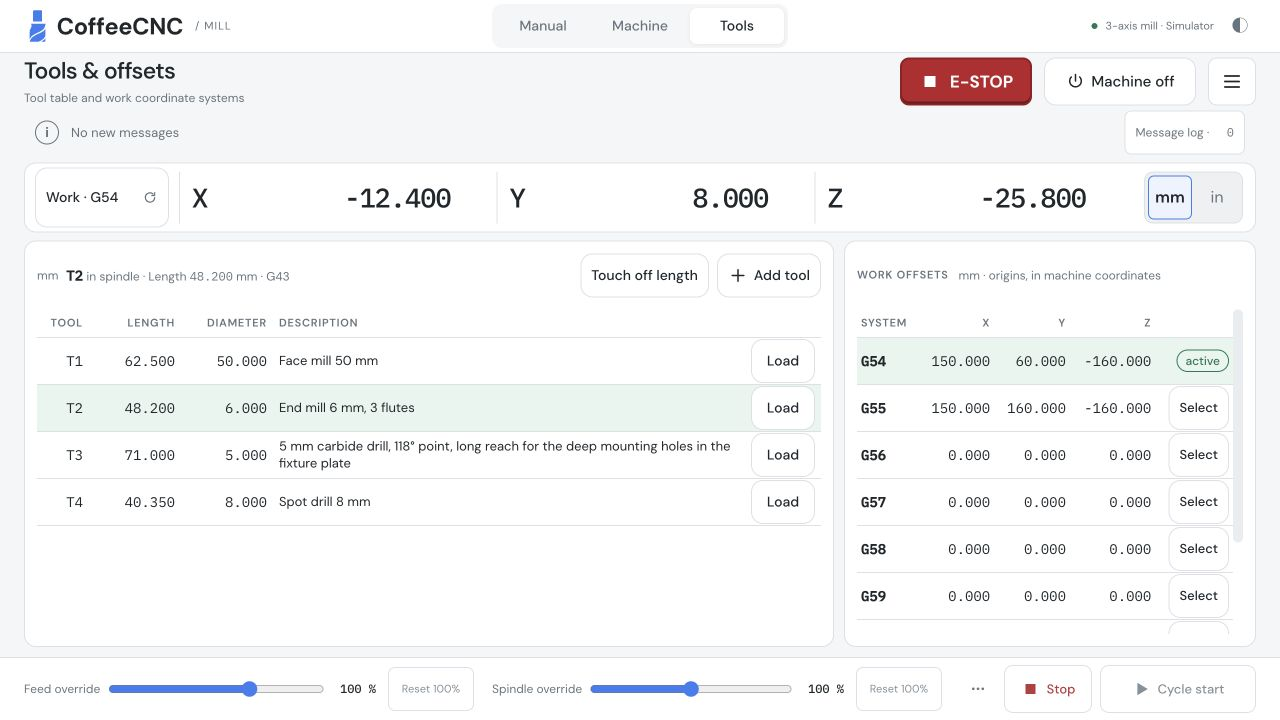
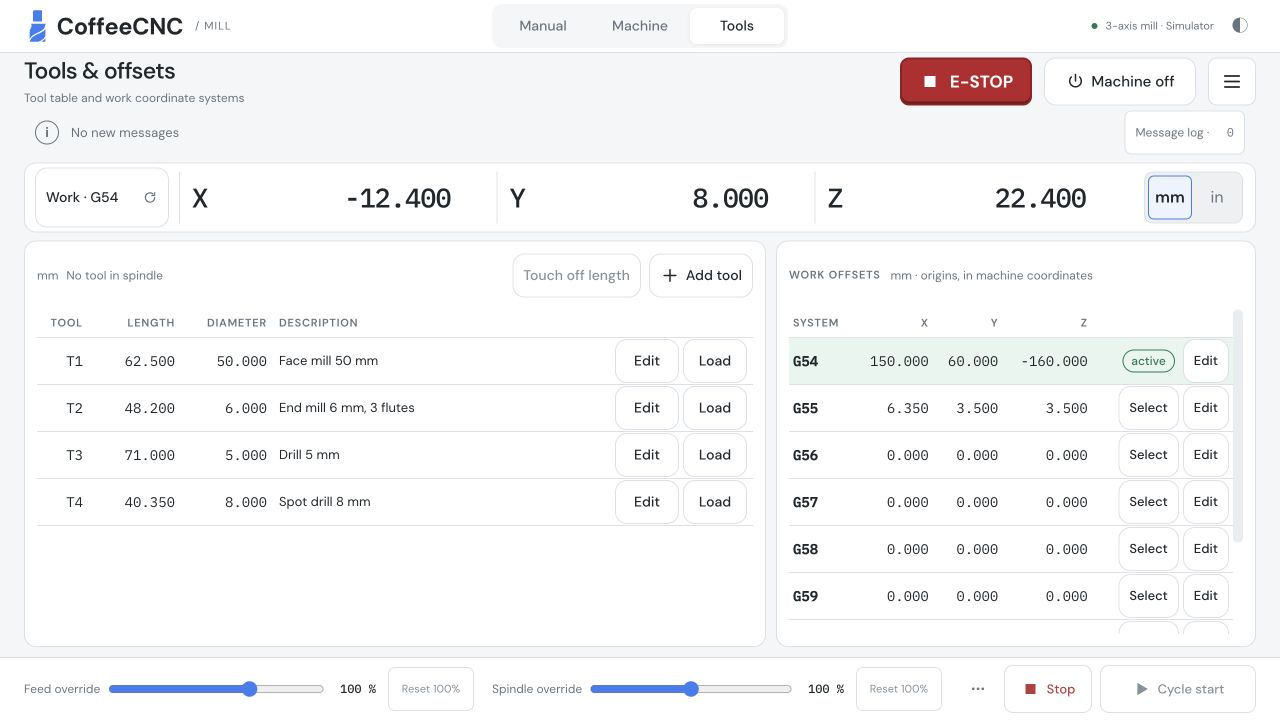
Document work-origin workflow and refresh Tools screenshots

diff --git a/docs/design/tools-workflow.md b/docs/design/tools-workflow.md
@@ -1,6 +1,6 @@
 # Tools workflow
 
-The Tools table uses one 44 px Load button per row. Tapping anywhere else in the row opens its editor. The header contains the reported spindle tool and applied Length; G43/G49 comes from active interpreter codes. Model assignment, model defaults and confirmed deletion live in the editor. Descriptions wrap without hover-only content or ellipses; exceptionally long descriptions can grow beyond two lines rather than hiding text.
+The Tools table uses outlined 44 px Edit and Load buttons per row. Tapping anywhere else in the row also opens its editor. The header contains the reported spindle tool and applied Length; G43/G49 comes from active interpreter codes. Model assignment, model defaults and confirmed deletion live in the editor. Descriptions wrap without hover-only content or ellipses; exceptionally long descriptions can grow beyond two lines rather than hiding text.
 
 Load first presents the selected tool, table length and diameter. Confirmation sends one `T<n> M6 G43 H<n>` MDI block through the existing backend command checks. It requires live status, machine on, interpreter idle and the configured homing policy. The native tool-change prompt remains authoritative. Connection, current-tool or MDI availability changes invalidate pending confirmation; a changed table row blocks it. The UI does not invent a loaded-tool state or acknowledge the manual-change prompt automatically.
 
@@ -9,3 +9,17 @@ M6 can invoke configured axis motion and does not itself apply length compensati
 Length consistently means the LinuxCNC table/applied Z offset in the operator table, tool editor and Manual DRO. Preview-model physical dimensions remain separate. Editing a description preserves unchanged numeric values exactly, including in inch display. Concurrent row or connection changes block stale edits. Deleting the spindle tool is disabled.
 
 The configurable contact-height preset is documented in [operator settings](operator-settings.md). A fixed setter at an absolute machine Z needs a separate measurement design; its physical height cannot be treated as a work-coordinate reference without calibration.
+
+## Work origins
+
+Use Edit or tap a work-system row to edit its XYZ origins in machine coordinates. The existing Select button remains separate: opening or editing G55 does not select G55. Each entry accepts the shared unit/formula syntax. Values are canonical millimetres on the wire; unchanged entries retain their original precision even when the display is inches.
+
+Review changes shows the current and proposed values and requires a fresh confirmation. Copy XYZ takes the entered values to the chosen destination; Clear XYZ proposes three zeros. Both use the same review step. These operations preserve the destination's XY rotation and the global G92/G52 shift. They do not copy or clear an entire rotated coordinate frame. An active-system write changes the work readout immediately without moving the machine.
+
+Unavailable origins stay blank rather than inheriting placeholder zeros. Replacing an unavailable system requires three explicit values, or the operator can close the editor and use Select to read it first. The review labels unknown prior values Unavailable. There is no hidden coordinate-system selection when opening the editor.
+
+The additive protocol command is `{type: 'set_work_offset', id, wcs: 1..9, offset: [X, Y, Z]}`. The native decoder requires exactly three finite numbers. The command policy requires live status, all three axes configured, machine on, idle/in-position, no tool-change handshake or homing, and the machine's homing policy. The session converts millimetres to current interpreter units and emits one explicit `G10 L2 P<n> X… Y… Z…` block. Existing dispatch checks and controller error handling apply. The backend does not select the destination or change G90/G91, units, R or G92.
+
+This follows the primary [LinuxCNC G10 L2 definition](https://linuxcnc.org/docs/2.9/html/gcode/g-code.html#gcode:g10-l2): explicit P identifies the fixture, and omitted rotation is retained. The choice to expose XYZ separately is CoffeeCNC's design.
+
+Drafts survive position feedback. Source-origin changes block editing; destination changes block a pending review. A work-system or MDI-availability change cancels confirmation while preserving the draft; unit or connection changes close the editor. The UI comparison is not an atomic controller lock: another LinuxCNC client can still race a write. Native command guards remain authoritative. Native NML only publishes the active system as available; the UI does not infer inactive values from a parameter file that may lag the interpreter.

diff --git a/README.md b/README.md
@@ -66,11 +66,22 @@ Use **Attach STEP model** to choose a local `.step`/`.stp` file, adjust opacity 
 
 Numeric fields accept formulas such as `1/4in`, `7mm/2` and `7/2mm`, with a result preview in the touch keypad. See [numeric entry and unit conversion](docs/numeric-entry.md).
 
-In **Tools**, tap a row to edit it, or use **Load** to confirm a tool change and apply its length. **Settings → Tool reference height** prefills manual length touch-off with the gauge block or setter contact height above work Z zero. The table keeps descriptions readable and puts deletion behind confirmation in the editor. See [the tool workflow](docs/design/tools-workflow.md).
+In **Tools**, use **Edit** or tap a row to edit it, or use **Load** to confirm a tool change and apply its length. **Settings → Tool reference height** prefills manual length touch-off with the gauge block or setter contact height above work Z zero. The table keeps descriptions readable and puts deletion behind confirmation in the editor. See [the tool workflow](docs/design/tools-workflow.md).
 
 ![CoffeeCNC Tools table with confirmed loading and a compact spindle header](ui/screenshots/tools-workflow-1600.png)
 
 *Browser simulator, 16 November 2026. T2 has been loaded through the manual-change prompt and G43 is applied. The tool editor, table and reference-height entry were checked at 1280 × 720 and 1600 × 900. [Validation and deployment status](docs/research/evidence/tools-workflow-2026-11-16.txt).*
+
+Use **Edit** or tap a work-system row to edit its XYZ machine-coordinate origins. **Copy XYZ** and **Clear XYZ** also require a before/after confirmation. Rotation and G92/G52 shifts stay unchanged; opening the editor does not select the system. Unknown origins remain blank until entered explicitly.
+
+<details>
+<summary>Confirmed work-origin editing at 1280 × 720</summary>
+
+![CoffeeCNC reviewing XYZ origins before writing G55](ui/screenshots/work-offset-review-1280.png)
+
+*Browser simulator, 16 November 2026. Formulas 1/4in, 7mm/2 and 7/2mm resolve to millimetres before confirmation. [Workflow](docs/design/tools-workflow.md#work-origins) · [Validation and deployment status](docs/research/evidence/work-offset-editor-2026-11-16.txt).*
+
+</details>
 
 Inside the tool editor, **Model defaults** configures common cutter families and **Set model** selects a family and physical dimensions for that tool. The editor includes a live 3D envelope preview. In the browser demo, defaults persist and per-tool assignments last for the page session. Native CoffeeCNC saves both per machine when `[COFFEECNC] MACHINE_ID` is configured; see [saved tool models](docs/tool-model-store.md). The Machine preview places the configured loaded tool at the reported tip, with an independent Tool visibility control. Physical dimensions remain independent of LinuxCNC Z offsets. See [tool model behavior and geometry](docs/design/tool-models.md).
 
